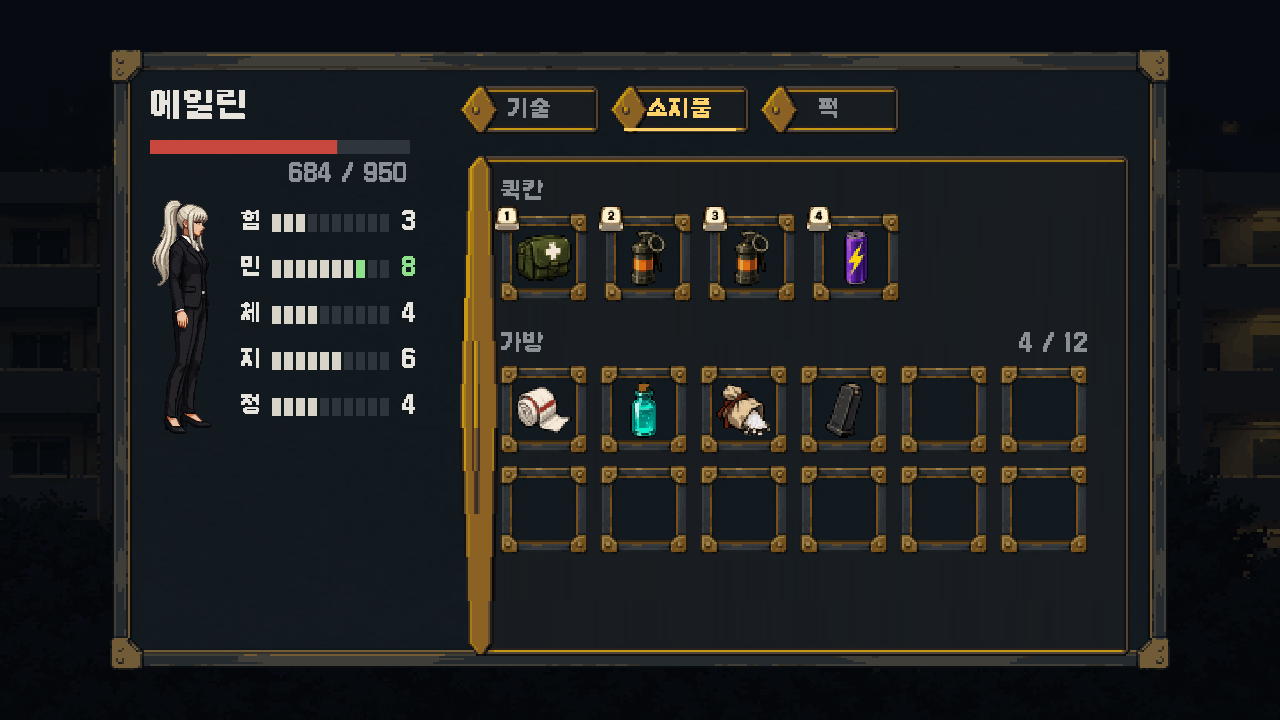
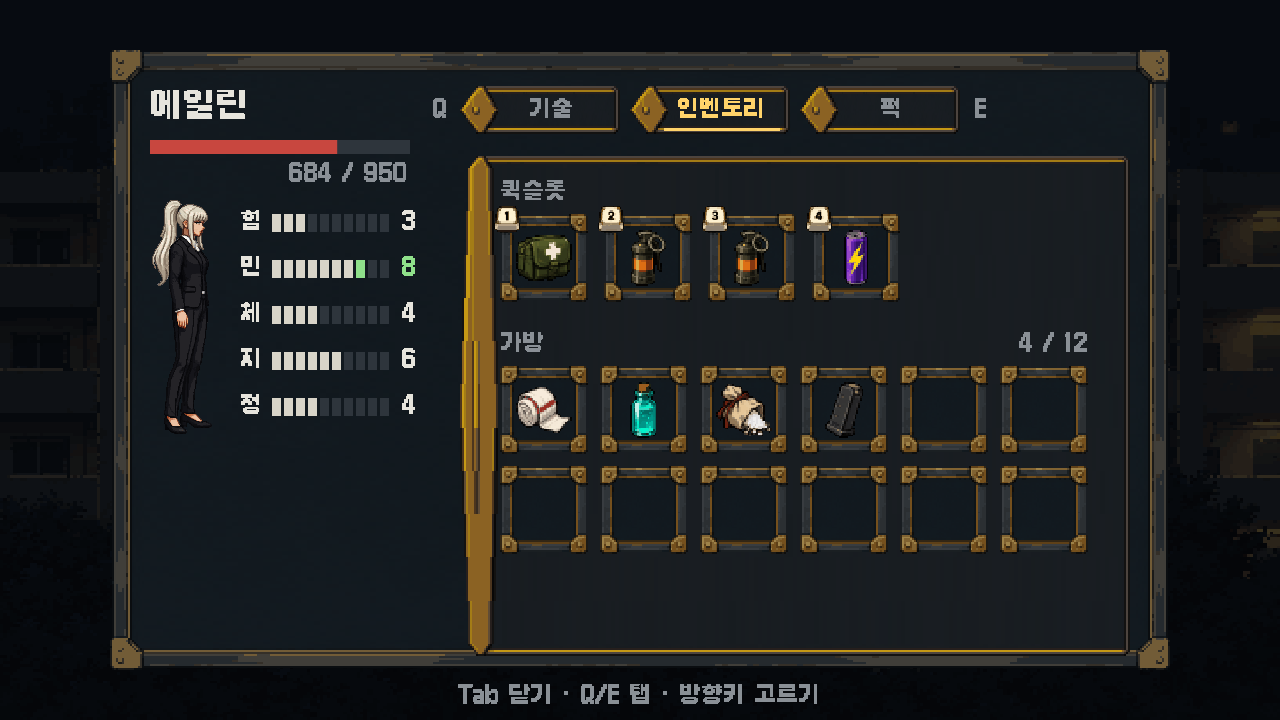
통합 창 시안 3: 탭 이름(기술·인벤토리·퍽)·퀵슬롯·Q/E 탭·조작 안내, 퍽 넘김 표시
Claude-Session: https://claude.ai/code/session_01JodrzdUrCJ7jVfnwW6NxJm

diff --git a/tools/mock/charwin_mock.js b/tools/mock/charwin_mock.js
@@ -197,18 +197,21 @@
       T(String(v), lx + 268, yy, up ? GOOD : INK2, 22, "right");
     });
     const rx = X + 350, ry = Y + 36, rw = WW - 390;
-    const tabs = [["skill", "\uAE30\uC220"], ["item", "\uC18C\uC9C0\uD488"], ["perk", "\uD37D"]];
+    const tabs = [["skill", "\uAE30\uC220"], ["item", "\uC778\uBCA4\uD1A0\uB9AC"], ["perk", "\uD37D"]];
     tabs.forEach(([k, n], i) => {
-      const tx = rx + i * 150;
-      nine("row", tx, ry, 140, 48, 2);
-      T(n, tx + 70, ry + 12, k === TAB ? GOLD : DIM, 22, "center");
+      const tx = rx + i * 170;
+      nine("row", tx, ry, 160, 48, 2);
+      T(n, tx + 92, ry + 12, k === TAB ? GOLD : DIM, 22, "center");
       if (k === TAB) {
         c.fillStyle = GOLD;
-        c.fillRect(tx + 14, ry + 42, 112, 3);
+        c.fillRect(tx + 34, ry + 42, 116, 3);
       }
     });
+    T("Q", rx - 20, ry + 12, DIM, 22, "center");
+    T("E", rx + 3 * 170 + 4, ry + 12, DIM, 22, "left");
     const cy = ry + 70, ch = HH - 120;
     nine("row", rx, cy, rw, ch, 2);
+    T("Tab \uB2EB\uAE30 \xB7 Q/E \uD0ED \xB7 \uBC29\uD5A5\uD0A4 \uACE0\uB974\uAE30", X + WW / 2, Y + HH + 14, DIM, 22, "center");
     if (TAB === "skill") {
       const sk = [["attack", "\uC57D\uACF5"], ["attack", "\uAC15\uACF5"], ["shoot", "\uC0AC\uACA9"], ["shoot", "\uCDA9\uC804"], ["unique", "\uACE0\uC720"], ["ult", "\uD544\uC0B4"]];
       sk.forEach(([ic, n], i) => {
@@ -225,7 +228,7 @@
       T("\uC0AC\uACA9", rx + 40, cy + 340, GOLD, 33);
       T("\uAD8C\uCD1D \uC5F0\uC0AC. \uC624\uB798 \uC3D8\uBA74 \uACFC\uC5F4\uB41C\uB2E4.", rx + 40, cy + 390, INK2);
     } else if (TAB === "item") {
-      T("\uD035\uCE78", rx + 40, cy + 24, DIM);
+      T("\uD035\uC2AC\uB86F", rx + 40, cy + 24, DIM);
       ["medkit", "flash", "flash", "energy"].forEach((k, i) => {
         const sx = rx + 40 + i * 104, sy = cy + 58;
         slot(sx, sy, 88);
@@ -259,11 +262,13 @@
       card(rx + 40, cy + 56, 150, 200, GOLD, "\uC900\uBE44\uB41C \uC0AC\uC218");
       T("\uC774\uBC88 \uAD34\uC774", rx + 230, cy + 22, DIM);
       const tmp = [["#b4b8bc", "\uD0C4 +1"], ["#b4b8bc", "3\uB2E8 \uC810\uD504"], ["#b4b8bc", "\uCCB4\uB825 +"], ["#d05040", "\uBB34\uBAA8\uD568"]];
-      tmp.forEach(([col, n], i) => card(rx + 230 + i % 2 * 170, cy + 56 + Math.floor(i / 2) * 214, 150, 200, col, n, i === 0));
+      tmp.forEach(([col, n], i) => card(rx + 230 + i % 2 * 170, cy + 58 + Math.floor(i / 2) * 192, 150, 180, col, n, i === 0));
+      T("\u25BC \uB354 \uBCF4\uAE30 (6)", rx + 400, cy + 446, DIM, 22, "center");
       T("\uD0C4 +1", rx + 40, cy + 300, GOLD, 33);
       T("\uC0AC\uACA9\uC774 \uB450 \uBC1C", rx + 40, cy + 346, INK2);
       T("\uB098\uAC04\uB2E4.", rx + 40, cy + 378, INK2);
     }
   }
-  main();
+  main().then(() => {
+  });
 })();

diff --git a/tools/mock/charwin_mock.ts b/tools/mock/charwin_mock.ts
@@ -54,15 +54,17 @@ async function main() {
 
   // ── 오른쪽: 탭
   const rx = X + 350, ry = Y + 36, rw = WW - 390;
-  const tabs: [string, string][] = [['skill', '기술'], ['item', '소지품'], ['perk', '퍽']];
+  const tabs: [string, string][] = [['skill', '기술'], ['item', '인벤토리'], ['perk', '퍽']];
   tabs.forEach(([k, n], i) => {
-    const tx = rx + i * 150; nine('row', tx, ry, 140, 48, 2);
-    T(n, tx + 70, ry + 12, k === TAB ? GOLD : DIM, 22, 'center');
-    if (k === TAB) { c.fillStyle = GOLD; c.fillRect(tx + 14, ry + 42, 112, 3); }
+    const tx = rx + i * 170; nine('row', tx, ry, 160, 48, 2);
+    T(n, tx + 92, ry + 12, k === TAB ? GOLD : DIM, 22, 'center');
+    if (k === TAB) { c.fillStyle = GOLD; c.fillRect(tx + 34, ry + 42, 116, 3); }
   });
+  T('Q', rx - 20, ry + 12, DIM, 22, 'center'); T('E', rx + 3 * 170 + 4, ry + 12, DIM, 22, 'left');
   const cy = ry + 70, ch = HH - 120;
   nine('row', rx, cy, rw, ch, 2);
 
+  T('Tab 닫기 · Q/E 탭 · 방향키 고르기', X + WW / 2, Y + HH + 14, DIM, 22, 'center');
   if (TAB === 'skill') {
     const sk: [string, string][] = [['attack', '약공'], ['attack', '강공'], ['shoot', '사격'], ['shoot', '충전'], ['unique', '고유'], ['ult', '필살']];
     sk.forEach(([ic, n], i) => {
@@ -74,7 +76,7 @@ async function main() {
     T('사격', rx + 40, cy + 340, GOLD, 33);
     T('권총 연사. 오래 쏘면 과열된다.', rx + 40, cy + 390, INK);
   } else if (TAB === 'item') {
-    T('퀵칸', rx + 40, cy + 24, DIM);
+    T('퀵슬롯', rx + 40, cy + 24, DIM);
     ['medkit', 'flash', 'flash', 'energy'].forEach((k, i) => {
       const sx = rx + 40 + i * 104, sy = cy + 58; slot(sx, sy, 88); c.drawImage(img['item_' + k], sx + 16, sy + 16, 56, 56);
       c.drawImage(img['key_' + (i + 1)], sx - 6, sy - 8, 26, 26);
@@ -98,10 +100,11 @@ async function main() {
     card(rx + 40, cy + 56, 150, 200, GOLD, '준비된 사수');
     T('이번 괴이', rx + 230, cy + 22, DIM);
     const tmp: [string, string][] = [['#b4b8bc', '탄 +1'], ['#b4b8bc', '3단 점프'], ['#b4b8bc', '체력 +'], ['#d05040', '무모함']];
-    tmp.forEach(([col, n], i) => card(rx + 230 + (i % 2) * 170, cy + 56 + Math.floor(i / 2) * 214, 150, 200, col, n, i === 0));
+    tmp.forEach(([col, n], i) => card(rx + 230 + (i % 2) * 170, cy + 58 + Math.floor(i / 2) * 192, 150, 180, col, n, i === 0));
+    T('▼ 더 보기 (6)', rx + 400, cy + 446, DIM, 22, 'center');
     T('탄 +1', rx + 40, cy + 300, GOLD, 33);
     T('사격이 두 발', rx + 40, cy + 346, INK);
     T('나간다.', rx + 40, cy + 378, INK);
   }
 }
-main();
+main().then(() => {});
